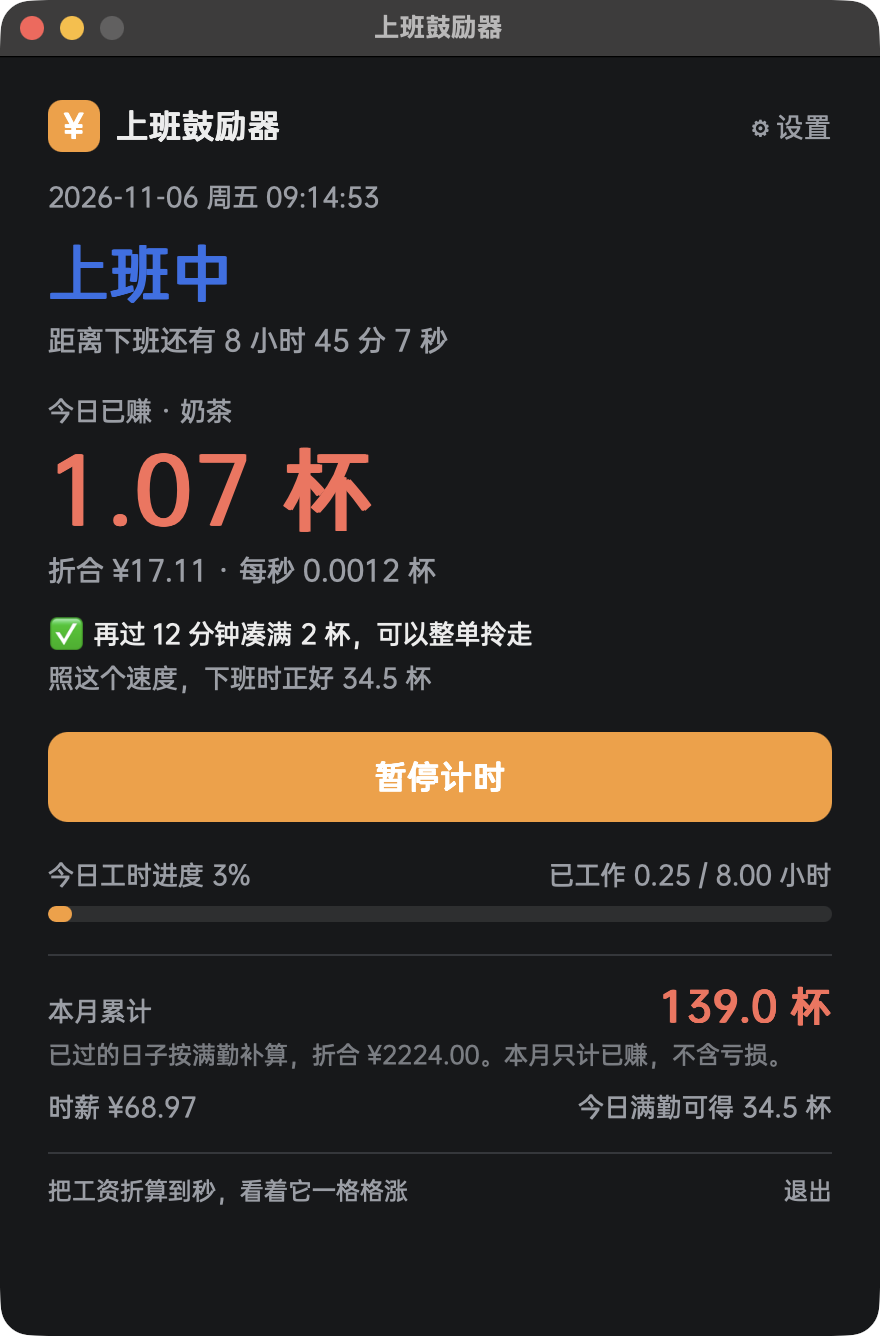
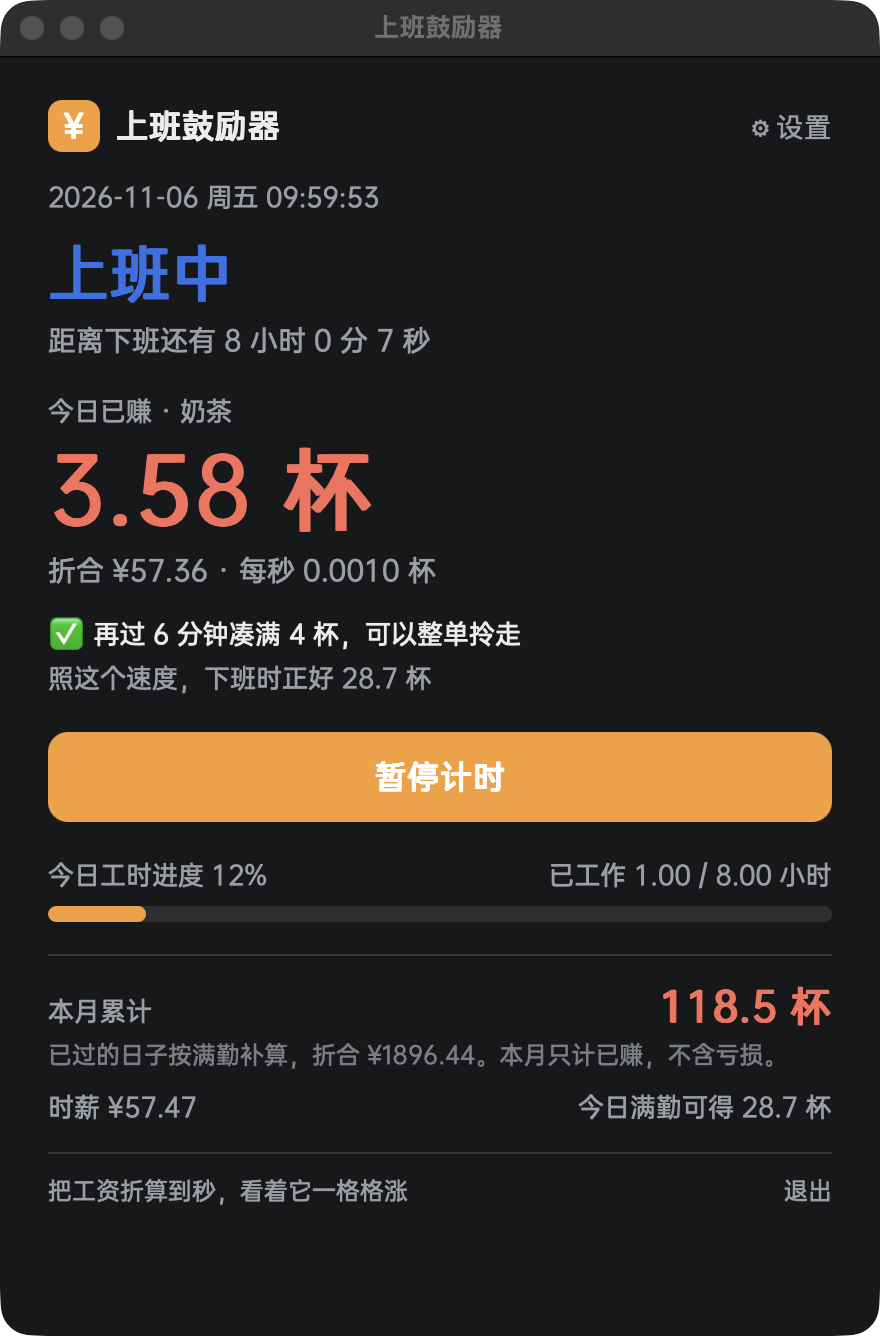
默认月薪 12000 → 10000，新用户首开更贴近中位数到手水平

diff --git a/Sources/SettingsView.swift b/Sources/SettingsView.swift
@@ -2,7 +2,7 @@ import SwiftUI
 import ServiceManagement
 
 struct SettingsView: View {
-    @AppStorage(Keys.salary) private var monthlySalary: Double = 12000
+    @AppStorage(Keys.salary) private var monthlySalary: Double = 10000
     @AppStorage(Keys.payDays) private var payDays: Double = 21.75
     @AppStorage(Keys.start) private var startTime = "09:00"
     @AppStorage(Keys.end) private var endTime = "18:00"

diff --git a/windows/workcheer-win/resources/index.html b/windows/workcheer-win/resources/index.html
@@ -238,7 +238,7 @@
 "use strict";
 // ---------- 默认配置（与 macOS 版一致） ----------
 const DEFAULTS = {
-  salary: 12000, payDays: 21.75,
+  salary: 10000, payDays: 21.75,
   start: "09:00", end: "18:00",
   lunchOn: true, lunchStart: "12:00", lunchEnd: "13:00",
   anchorName: "奶茶", anchorUnit: "杯", anchorPrice: 16,

diff --git a/Sources/Engine.swift b/Sources/Engine.swift
@@ -47,7 +47,7 @@ enum Keys {
 }
 
 struct WorkConfig {
-    var monthlySalary: Double = 12000
+    var monthlySalary: Double = 10000
     var payDays: Double = 21.75
     var startSeconds: Double = 9 * 3600
     var endSeconds: Double = 18 * 3600

diff --git a/README.md b/README.md
@@ -83,7 +83,7 @@ cd .. && makensis setup.nsi    # 产物 ../release/WorkCheer-Windows-v1.1-Setup.
 
 ## 更新日志
 
-- 2026-11-06 v1.1：**逻辑重做——锚定物品**。自定义一件物品（名称/单位/单价），工资按它换算：主数字从金额改成「今天赚了多少杯奶茶」，新增凑整倒计时（再过 X 分钟凑满 N 杯）、下班预期数量，本月累计与满勤同步改为物品数量口径，金额降级为折合小字。
+- 2026-11-06 v1.1：**逻辑重做——锚定物品**（默认月薪 ¥10,000）。自定义一件物品（名称/单位/单价），工资按它换算：主数字从金额改成「今天赚了多少杯奶茶」，新增凑整倒计时（再过 X 分钟凑满 N 杯）、下班预期数量，本月累计与满勤同步改为物品数量口径，金额降级为折合小字。
 - 2026-11-04 v1.0：首发。实时赚钱（每秒跳动）、下班倒计时、商品换算鼓励语、暂停计时、工时进度、本月累计按满勤补算、自定义赚回清单、午休不计薪；macOS 版含菜单栏常驻与开机自启，Windows 版含 NSIS 安装器与免安装包。
 
 ## 说明
